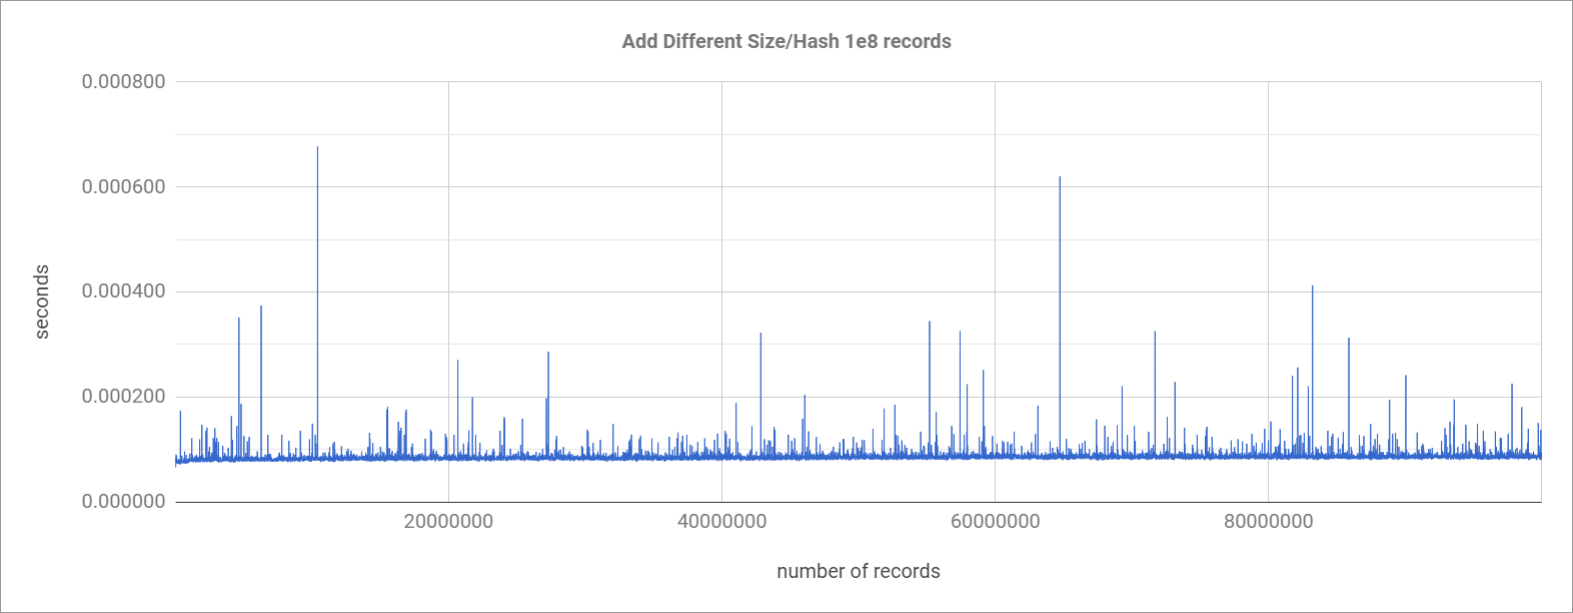
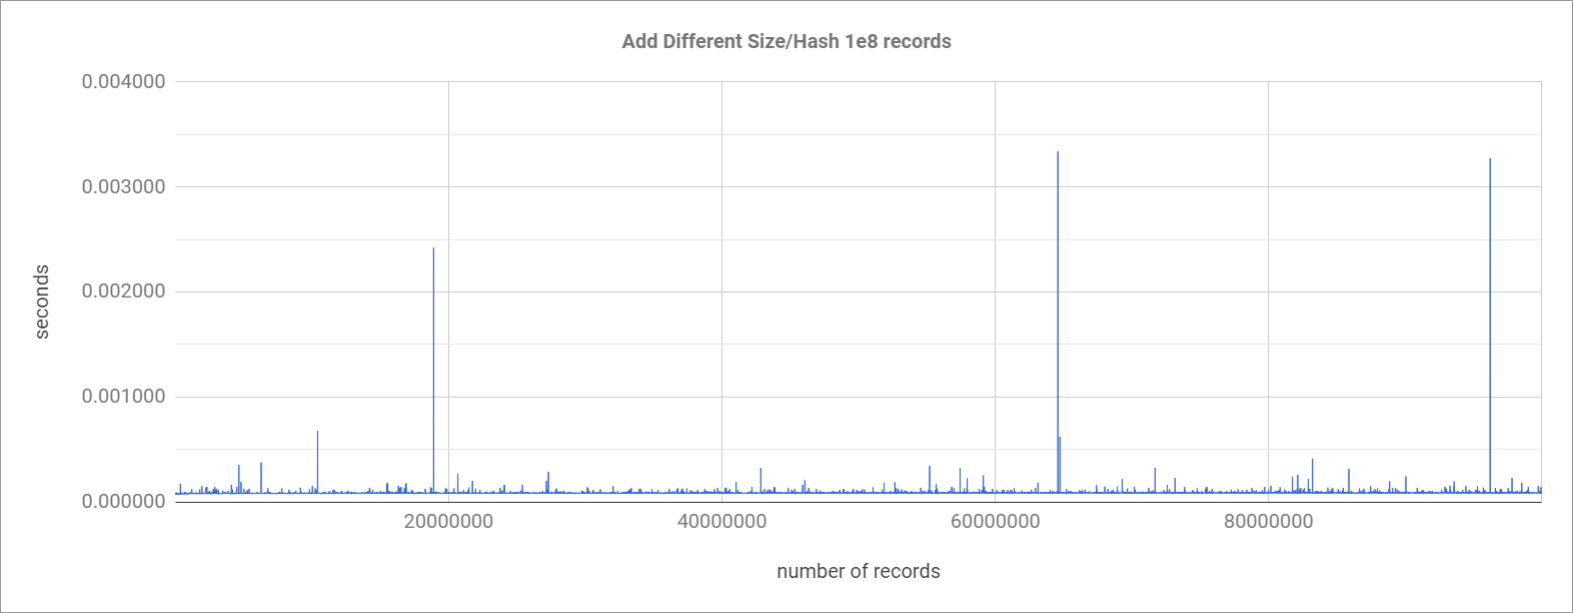
update and add new pic

diff --git a/si_db_benchmark/index.html b/si_db_benchmark/index.html
@@ -15,6 +15,9 @@
 					<a class="nav-link active" id="diff-tab" data-toggle="tab" href="#diff" role="tab" aria-selected="true">Different Key * 1e8</a>
 				</li>
 				<li class="nav-item">
+					<a class="nav-link" id="diff-rand-tab" data-toggle="tab" href="#diff-rand" role="tab" aria-selected="false">Different Key * 1e8 (random)</a>
+				</li>
+				<li class="nav-item">
 					<a class="nav-link" id="same-tab" data-toggle="tab" href="#same" role="tab" aria-selected="false">Same Key * 10k</a>
 				</li>
 			</ul>
@@ -22,6 +25,9 @@
 				<div class="tab-pane fade show active" id="diff" role="tabpanel" aria-labelledby="diff-tab">
 					<img src="pic/add_diff_1e8.png" style="width:100%"><br>
 					<img src="pic/delete_diff_1e8.png" style="width:100%">
+				</div>
+				<div class="tab-pane fade" id="diff-rand" role="tabpanel" aria-labelledby="diff-rand-tab">
+					<img src="pic/add_diff_1e8_random.png" style="width:100%">
 				</div>
 				<div class="tab-pane fade" id="same" role="tabpanel" aria-labelledby="same-tab">
 					<img src="pic/add_same_10k.png" style="width:100%"><br>
